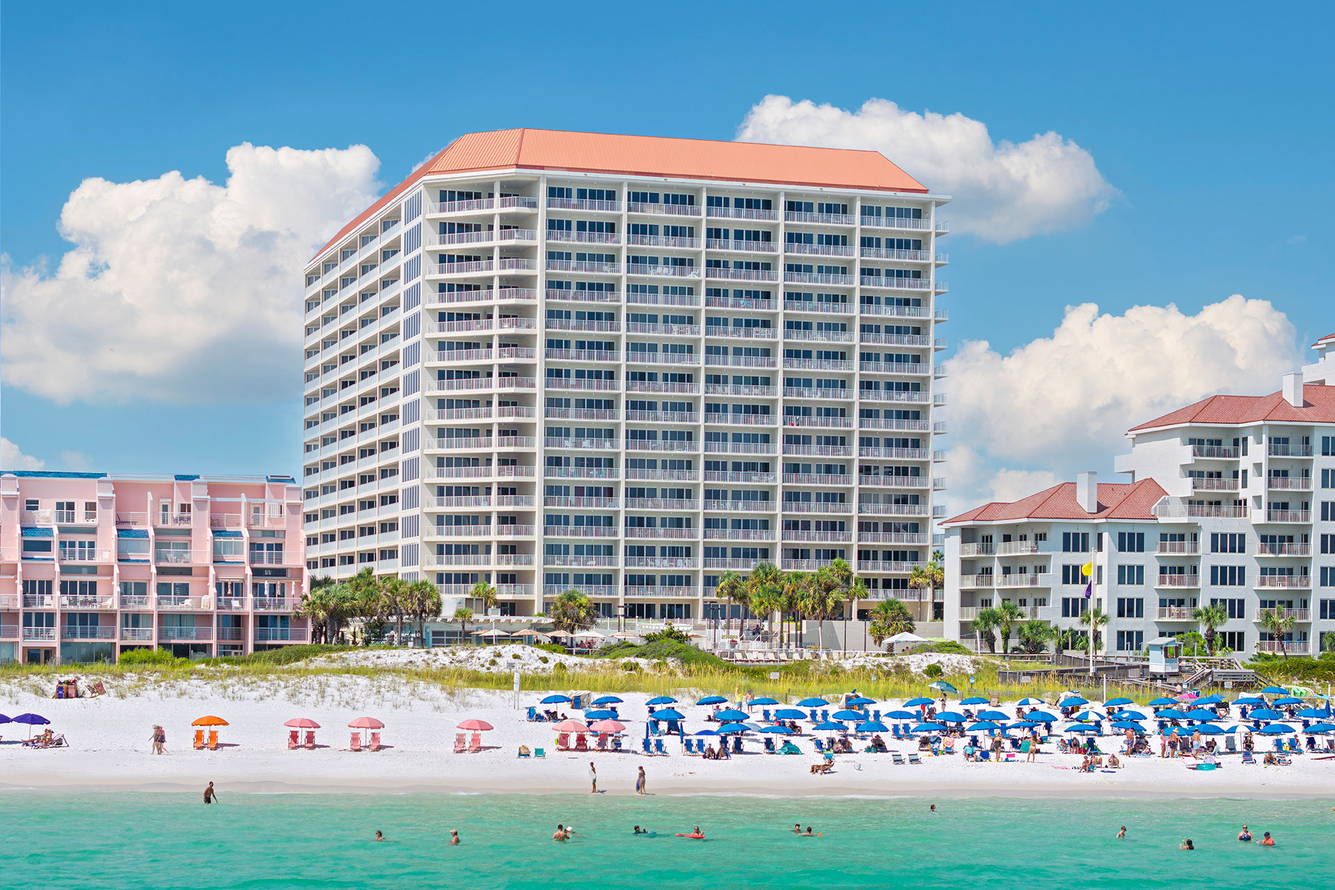
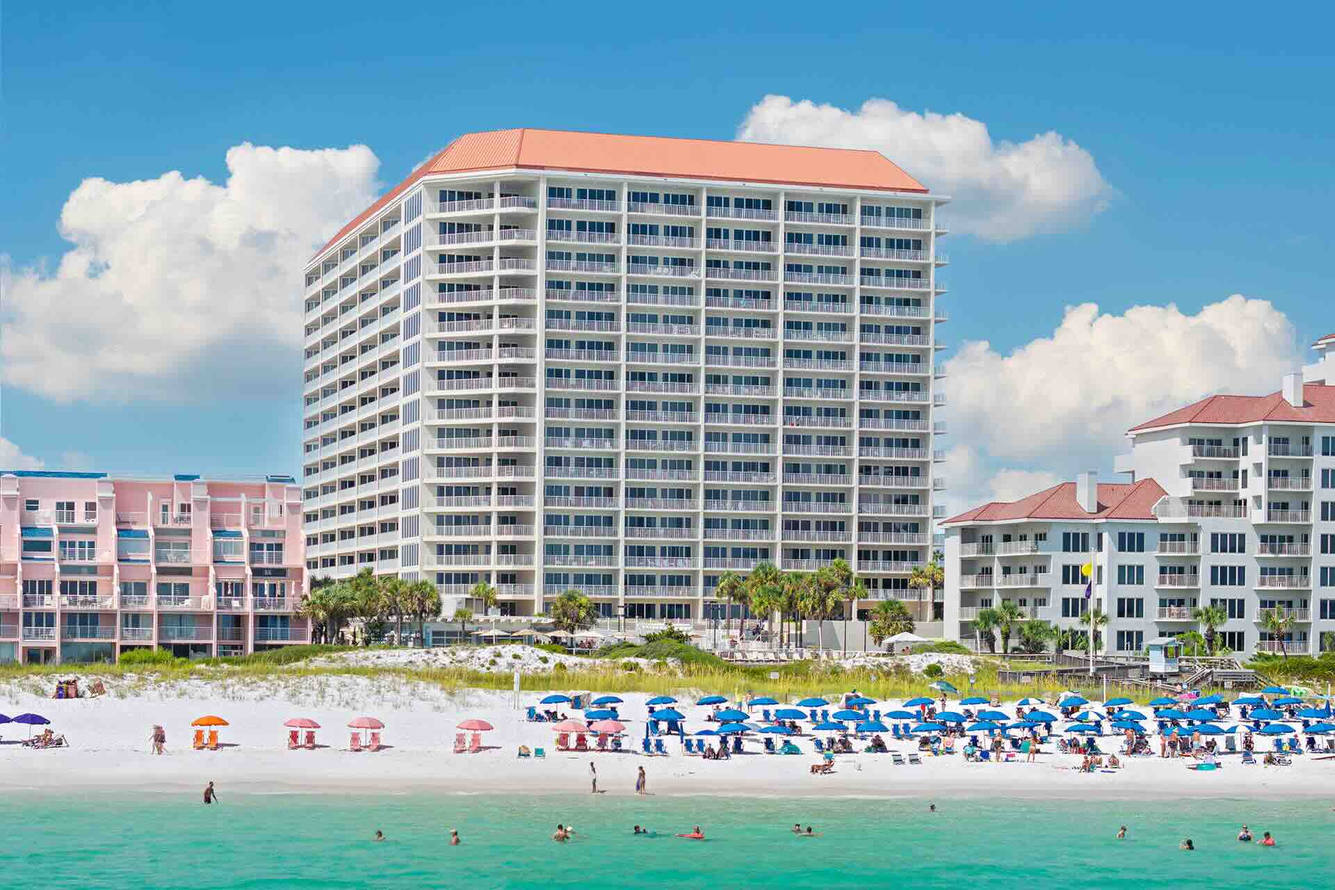
phone optional issue fixed

diff --git a/users/templates/users/register.html b/users/templates/users/register.html
@@ -16,7 +16,7 @@
             <span class="badge badge-emerald">
               ✓
             </span>
-            <p>You can use your email or phone number to login (email is required, phone is optional).</p>
+            <p>You can use your email or phone number to login</p>
           </div>
           <div>
             <span class="badge badge-emerald">
